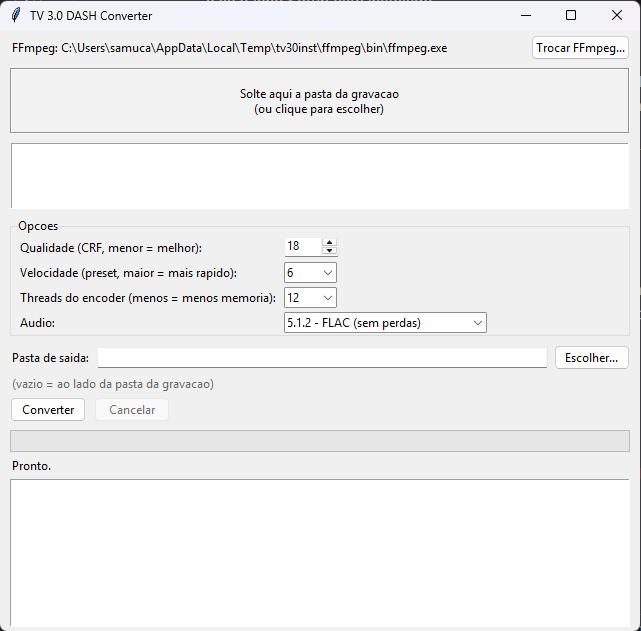
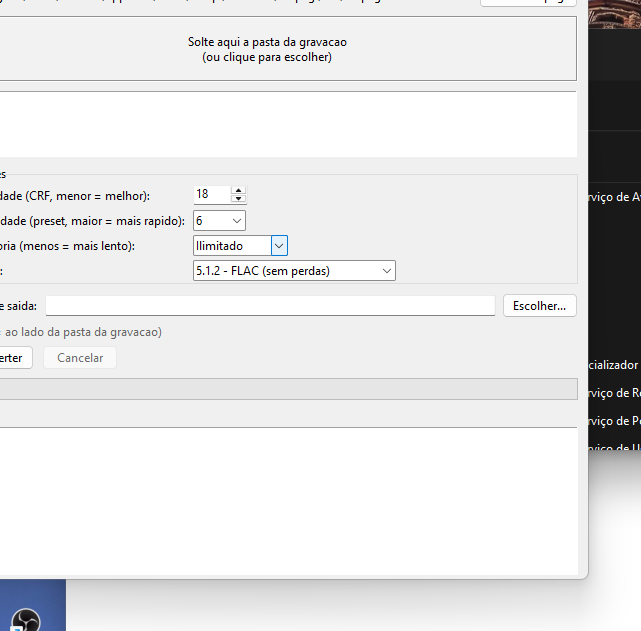
Limite de memoria via Job Object do Windows + icone do app na janela/taskbar (v1.1.0)

Changed region(s): [[0.0, 0.0, 1.0, 1.0], [0.78, 0.4818, 0.8736, 0.5119], [0.5928, 0.4216, 0.624, 0.4517]]

diff --git a/dashconv.py b/dashconv.py
@@ -1,3 +1,4 @@
+import ctypes
 import json
 import os
 import re
@@ -6,6 +7,7 @@ import struct
 import subprocess
 import threading
 import xml.etree.ElementTree as ET
+from ctypes import wintypes
 from fractions import Fraction
 
 MPD_NS = "urn:mpeg:dash:schema:mpd:2011"
@@ -24,6 +26,14 @@ AUDIO_MODES = {
     "Estereo - FLAC (sem perdas)": ("stereo", ["-c:a", "flac"]),
     "Estereo - AAC 256k": ("stereo", ["-c:a", "aac", "-b:a", "256k"]),
     "Sem audio": (None, []),
+}
+
+
+MEM_PRESETS = {
+    "Ilimitado": None,
+    "8 GB": ("8", "90", 8),
+    "6 GB": ("4", "40", 6),
+    "4 GB": ("1", "40", 4),
 }
 
 
@@ -413,8 +423,9 @@ def build_command(ffmpeg, rec, mpd, audio_path, out_path, opts, log=print):
     info = rec.info
     svt = ("color-primaries=9:transfer-characteristics=16:matrix-coefficients=9:color-range=0:"
            "mastering-display=%s:content-light=%s" % (hdr["mastering"], hdr["light"]))
-    if opts.get("lp"):
-        svt += ":lp=%d" % opts["lp"]
+    mem = MEM_PRESETS.get(opts.get("mem") or "Ilimitado")
+    if mem:
+        svt += ":lp=%s:lookahead=%s" % (mem[0], mem[1])
     layout, acodec = AUDIO_MODES[opts["audio"]]
     use_audio = bool(audio_path and layout)
     v_off = a_off = 0.0
@@ -448,12 +459,63 @@ class Job:
     def __init__(self):
         self.cancel = threading.Event()
         self.proc = None
+        self.mem_limit = 0
 
     def kill(self):
         self.cancel.set()
         if self.proc and self.proc.poll() is None:
             subprocess.run(["taskkill", "/T", "/F", "/PID", str(self.proc.pid)],
                            capture_output=True, creationflags=NO_WINDOW)
+
+
+JobObjectExtendedLimitInformation = 9
+JOB_OBJECT_LIMIT_JOB_MEMORY = 0x00000200
+
+
+class _IO_COUNTERS(ctypes.Structure):
+    _fields_ = [(n, ctypes.c_ulonglong) for n in
+                ("ReadOperationCount", "WriteOperationCount", "OtherOperationCount",
+                 "ReadTransferCount", "WriteTransferCount", "OtherTransferCount")]
+
+
+class _BASIC_LIMIT(ctypes.Structure):
+    _fields_ = [("PerProcessUserTimeLimit", ctypes.c_ulonglong),
+                ("PerJobUserTimeLimit", ctypes.c_ulonglong),
+                ("LimitFlags", wintypes.DWORD),
+                ("MinimumWorkingSetSize", ctypes.c_size_t),
+                ("MaximumWorkingSetSize", ctypes.c_size_t),
+                ("ActiveProcessLimit", wintypes.DWORD),
+                ("Affinity", ctypes.c_size_t),
+                ("PriorityClass", wintypes.DWORD),
+                ("SchedulingClass", wintypes.DWORD)]
+
+
+class _EXT_LIMIT(ctypes.Structure):
+    _fields_ = [("BasicLimitInformation", _BASIC_LIMIT),
+                ("IoCounters", _IO_COUNTERS),
+                ("ProcessMemoryLimit", ctypes.c_size_t),
+                ("JobMemoryLimit", ctypes.c_size_t),
+                ("PeakProcessMemoryUsed", ctypes.c_size_t),
+                ("PeakJobMemoryUsed", ctypes.c_size_t)]
+
+
+def _apply_memory_limit(pid, limit_bytes):
+    k32 = ctypes.WinDLL("kernel32", use_last_error=True)
+    info = _EXT_LIMIT()
+    info.LimitFlags = JOB_OBJECT_LIMIT_JOB_MEMORY
+    info.JobMemoryLimit = limit_bytes
+    h = k32.CreateJobObjectW(None, None)
+    if not h:
+        return
+    if not k32.SetInformationJobObject(h, JobObjectExtendedLimitInformation,
+                                       ctypes.byref(info), ctypes.sizeof(info)):
+        k32.CloseHandle(h)
+        return
+    proc = k32.OpenProcess(0x1FFFFF, False, pid)
+    if proc:
+        k32.AssignProcessToJobObject(h, proc)
+        k32.CloseHandle(proc)
+    k32.CloseHandle(h)
 
 
 def output_duration(ffmpeg, path):
@@ -465,10 +527,12 @@ def output_duration(ffmpeg, path):
         return 0.0
 
 
-def run_encode(cmd, duration, job, on_progress, log_path, ffmpeg=None, out_path=None):
+def run_encode(cmd, duration, job, on_progress, log_path, ffmpeg=None, out_path=None, mem_limit=0):
     with open(log_path, "w", errors="replace") as errf:
         job.proc = subprocess.Popen(cmd, stdout=subprocess.PIPE, stderr=errf, text=True,
                                     errors="replace", creationflags=NO_WINDOW)
+        if mem_limit:
+            _apply_memory_limit(job.proc.pid, mem_limit * 2 ** 30)
         cur = {}
         for line in job.proc.stdout:
             if "=" not in line:
@@ -498,5 +562,8 @@ def run_encode(cmd, duration, job, on_progress, log_path, ffmpeg=None, out_path=
             return "ffmpeg reportou um erro ao fechar a camada LCEVC, mas o arquivo tem a duracao esperada (%s)" % fmt_time(got)
         raise ConvError("Saida incompleta: %s de %s" % (fmt_time(got), fmt_time(duration)))
     if rc != 0:
+        if mem_limit and ("allocate memory failed" in tail or "Cannot allocate" in tail or "Cannot allocate memory" in tail):
+            raise ConvError("A conversao passou do limite de memoria escolhido. "
+                            "Escolha um limite maior ou 'Ilimitado'.")
         raise ConvError("ffmpeg falhou (codigo %s):\n%s" % (rc, tail))
     return None

diff --git a/app.py b/app.py
@@ -55,12 +55,30 @@ def enable_drop(root, callback):
         return False
 
 
+def app_icon_path():
+    base = getattr(sys, "_MEIPASS", APP_DIR)
+    for p in (os.path.join(base, "icon.ico"), os.path.join(APP_DIR, "installer", "icon.ico")):
+        if os.path.exists(p):
+            return p
+    return None
+
+
 class App:
     def __init__(self, root):
         self.root = root
         root.title("TV 3.0 DASH Converter")
         root.geometry("640x600")
         root.minsize(560, 520)
+        try:
+            ctypes.windll.shell32.SetCurrentProcessExplicitAppUserModelID("tv30.dash.converter.1")
+        except Exception:
+            pass
+        ic = app_icon_path()
+        if ic:
+            try:
+                root.iconbitmap(ic)
+            except Exception:
+                pass
         self.q = queue.Queue()
         self.recs = []
         self.job = None
@@ -87,15 +105,15 @@ class App:
         opt.pack(fill="x", **pad)
         self.crf = tk.IntVar(value=18)
         self.preset = tk.StringVar(value="6")
-        self.lp = tk.StringVar(value="12")
+        self.mem = tk.StringVar(value="Ilimitado")
         self.audio = tk.StringVar(value=list(dc.AUDIO_MODES)[0])
         ttk.Label(opt, text="Qualidade (CRF, menor = melhor):").grid(row=0, column=0, sticky="w", padx=6, pady=3)
         ttk.Spinbox(opt, from_=10, to=40, textvariable=self.crf, width=6).grid(row=0, column=1, sticky="w")
         ttk.Label(opt, text="Velocidade (preset, maior = mais rapido):").grid(row=1, column=0, sticky="w", padx=6, pady=3)
         ttk.Combobox(opt, textvariable=self.preset, values=[str(i) for i in range(2, 11)], width=5,
                      state="readonly").grid(row=1, column=1, sticky="w")
-        ttk.Label(opt, text="Threads do encoder (menos = menos memoria):").grid(row=2, column=0, sticky="w", padx=6, pady=3)
-        ttk.Combobox(opt, textvariable=self.lp, values=["4", "6", "8", "12", "16", "24"], width=5,
+        ttk.Label(opt, text="Memoria (menos = mais lento):").grid(row=2, column=0, sticky="w", padx=6, pady=3)
+        ttk.Combobox(opt, textvariable=self.mem, values=list(dc.MEM_PRESETS), width=12,
                      state="readonly").grid(row=2, column=1, sticky="w")
         ttk.Label(opt, text="Audio:").grid(row=3, column=0, sticky="w", padx=6, pady=3)
         ttk.Combobox(opt, textvariable=self.audio, values=list(dc.AUDIO_MODES), width=30,
@@ -224,7 +242,7 @@ class App:
         if not self.ffmpeg:
             messagebox.showerror("TV 3.0 DASH Converter", "FFmpeg nao encontrado. Use 'Trocar FFmpeg...'.")
             return
-        opts = {"crf": int(self.crf.get()), "preset": int(self.preset.get()), "lp": int(self.lp.get()),
+        opts = {"crf": int(self.crf.get()), "preset": int(self.preset.get()), "mem": self.mem.get(),
                 "audio": self.audio.get()}
         self.busy = True
         self.job = dc.Job()
@@ -270,7 +288,9 @@ class App:
                     self.q.put(("status", "%s: %.1f%%  |  %s fps  |  %s  |  faltam ~%s" % (
                         tag, p * 100, fps, speed, dc.fmt_time(eta) if eta else "--")))
 
-                note = dc.run_encode(cmd, rec.info["duration"], self.job, prog, out + ".log", self.ffmpeg, out)
+                mem = dc.MEM_PRESETS.get(opts["mem"]) or (0, 0, 0)
+                note = dc.run_encode(cmd, rec.info["duration"], self.job, prog, out + ".log", self.ffmpeg, out,
+                                     mem_limit=mem[2] * 2 ** 30)
                 if note:
                     self.say("Aviso: " + note)
                 try:

diff --git a/README.md b/README.md
@@ -84,7 +84,9 @@ empacota o app com PyInstaller e compila `installer/setup.iss`. Resultado:
 2. Arraste a pasta raiz da gravacao (ex.: `captura-f1-gp-sp-qualy`) para a janela.
    Se houver mais de uma gravacao na pasta, cada uma aparece na lista; selecione as
    que quiser (Ctrl+clique).
-3. Escolha CRF/preset/audio e a pasta de saida (padrao: junto a gravacao).
+3. Escolha CRF/preset/audio, o **limite de memoria** e a pasta de saida (padrao: junto a gravacao).
+   O limite e aplicado de verdade ao ffmpeg (Job Object do Windows): se a conversao estourar,
+   ela para com uma mensagem clara. Menos memoria = mais lento (o encoder usa menos threads).
 4. Clique em **Converter**. A preparacao e rapida (usa hardlinks, so copia o audio);
    a codificacao 4K e lenta (independente de GPU, ~0,3x no preset 9 com 12 threads).
 
